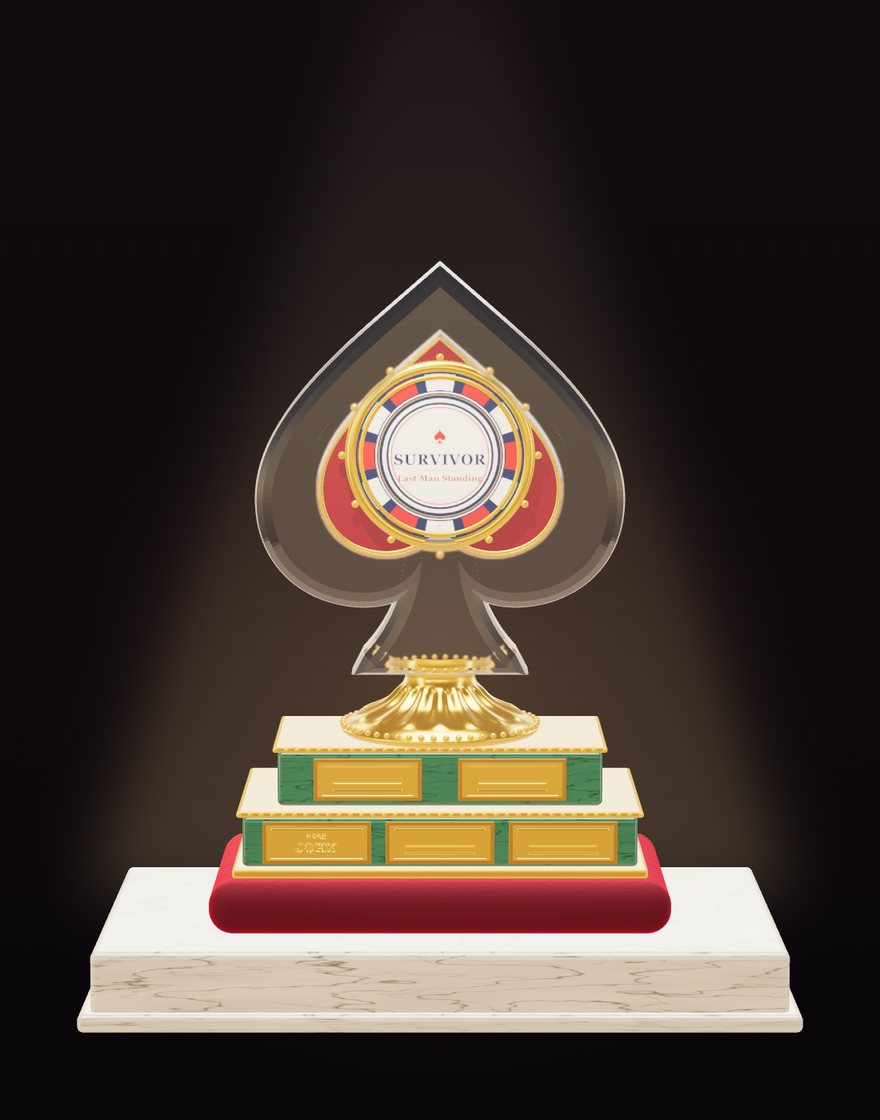
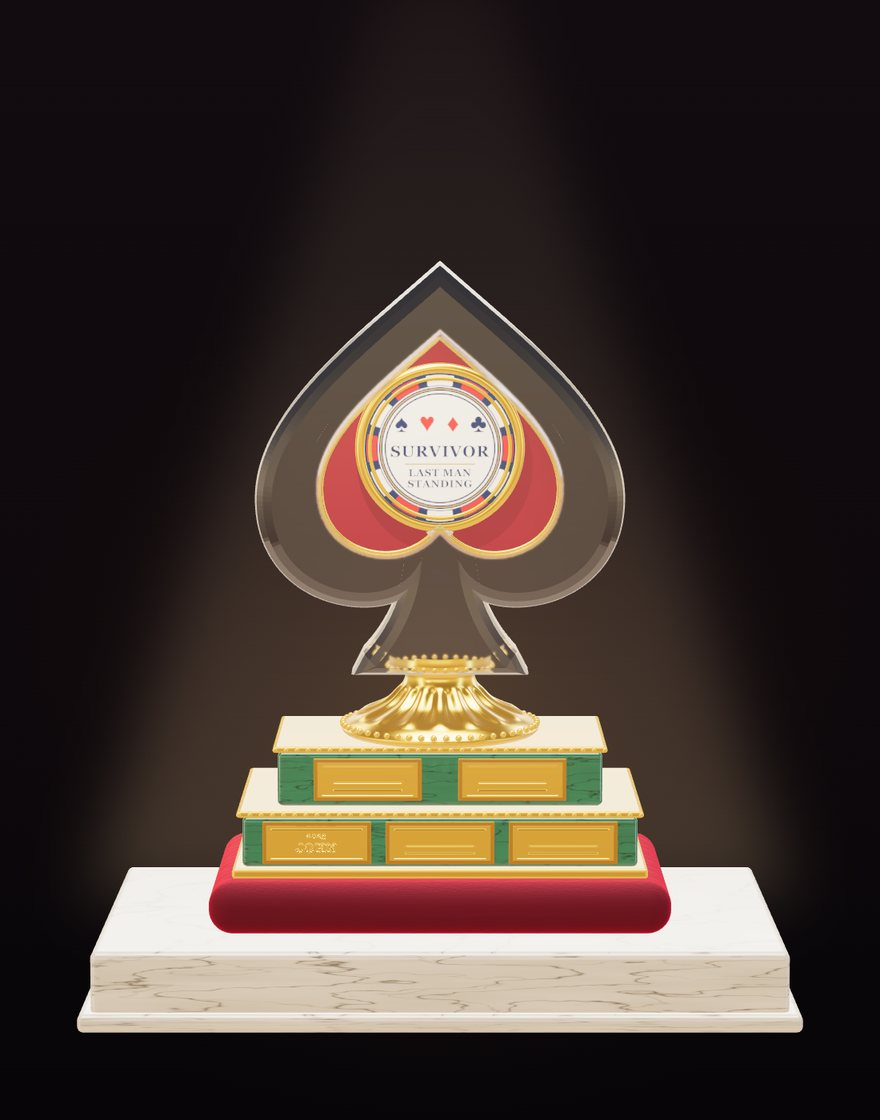
Survivor trophy: a chip you can read, with all four suits

Changed region(s): [[0.3682, 0.3125, 0.6136, 0.5]]

diff --git a/docs/DECISION_LOG.md b/docs/DECISION_LOG.md
@@ -1749,3 +1749,7 @@ The app added to a phone's home screen runs in its own window with no browser ba
 
 The Bowl Card (standings table) and the Bowl picks schedule used selectors like `.grid:first-child > span:nth-child(2)` and `> div:nth-of-type(2) > div:first-child`, so moving a wrapper div or reordering a cell silently restyled them. Each row and cell now carries a name for its job (`bowl-standings-head-row`, `-games-row`, `-head-gutter`, `-head-end`, `-date`, `-score-cell`, `-tiebreaker-cell`, `bowl-edge`, `bowl-first-game`, `bowl-legend-row`, `bowl-schedule`, ...) and the rules use those. Only the zebra striping (`:nth-child(odd)`) stays positional, because striping is positional by nature. Every screenshot (day and night, all widths) compares identical before and after. Budgets: duplicates 86, hex 239, night rules 152.
 
+## The Survivor chip is easier to read
+
+The chip on the Survivor trophy picture was redrawn for legibility: one large, plain face in dark navy on ivory (all four suits across the top, SURVIVOR, a gold rule, then LAST MAN STANDING on two lines), a narrower edge, and gold beads set on the chip's own bezel instead of floating loose around it. The chip is slightly smaller and centred in the heart so the heart's outline frames it. The picture is `public/trophies/survivor.jpg`; the other two trophies are unchanged.
+
